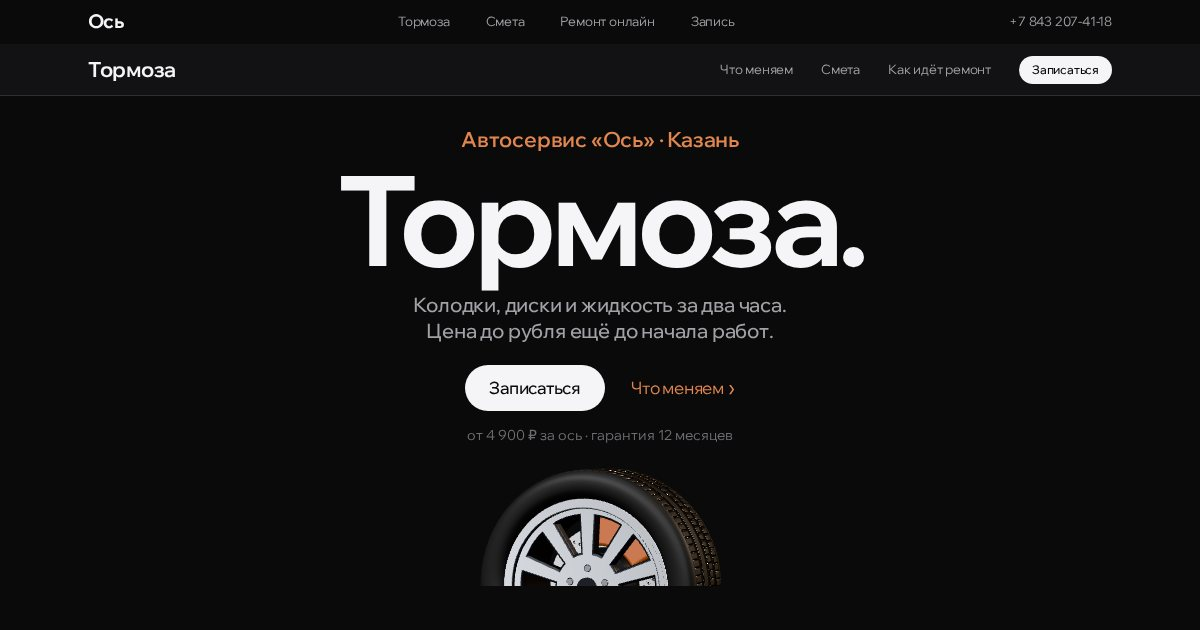
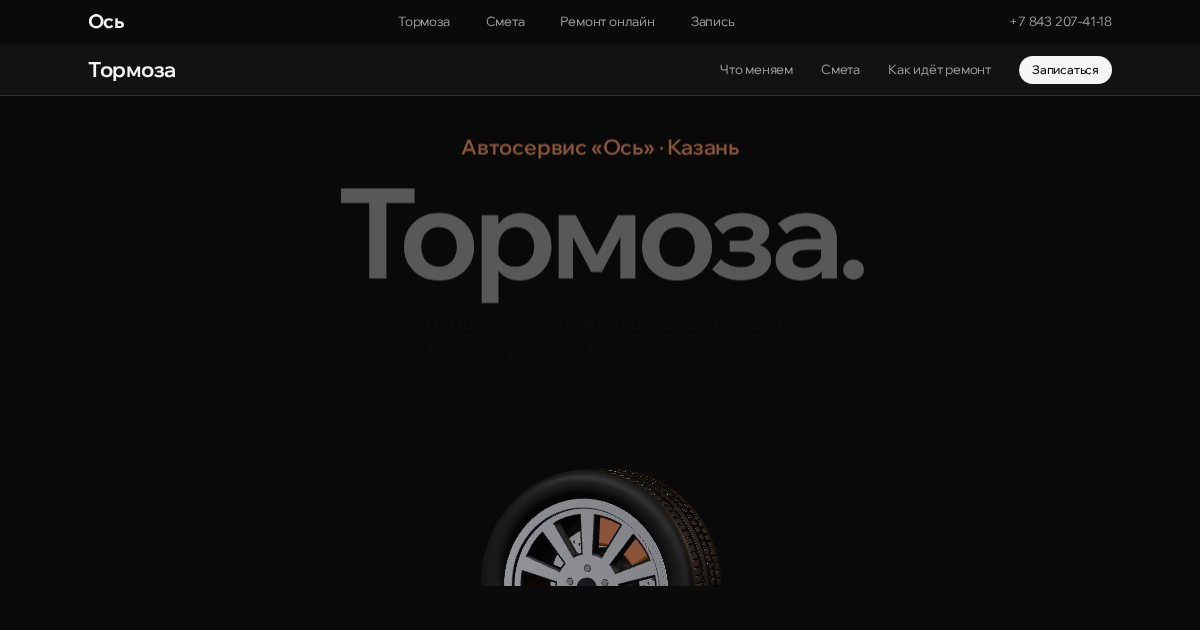
Выкладка os-servis

diff --git a/os-servis/assets/css/site.css b/os-servis/assets/css/site.css
@@ -80,10 +80,10 @@ body.go .rise:nth-child(4) { transition-delay: .24s; }
 body.go .rise:nth-child(5) { transition-delay: .32s; }
 
 /* манифест */
-.manifest { background: var(--white); color: var(--dark); padding: clamp(120px, 24vh, 260px) 0; }
+.manifest { background: var(--black); color: var(--ink); padding: clamp(120px, 24vh, 260px) 0; }
 .manifest-text { width: min(980px, calc(100% - 48px)); margin: 0 auto; font-size: clamp(30px, 3.9vw, 56px); line-height: 1.14; font-weight: 650; letter-spacing: -.03em; }
-.manifest-text .w { color: #d2d2d7; transition: color .35s linear; }
-.manifest-text .w.on { color: var(--dark); }
+.manifest-text .w { color: #3a3a3d; transition: color .35s linear; }
+.manifest-text .w.on { color: var(--ink); }
 
 /* разбор */
 .stage { position: sticky; top: 0; height: 100vh; height: 100svh; overflow: hidden; }
@@ -103,7 +103,7 @@ body.go .rise:nth-child(5) { transition-delay: .32s; }
 .note p { font-size: 15px; line-height: 1.45; color: var(--ink-2); }
 
 /* смета */
-.smeta { background: var(--paper); color: var(--dark); padding: clamp(100px, 15vh, 170px) 0; }
+.smeta { background: linear-gradient(180deg, var(--black) 0, #2a2a2c 70px, #d9d9de 190px, var(--paper) 280px); color: var(--dark); padding: clamp(220px, 28vh, 300px) 0 clamp(100px, 15vh, 170px); }
 .smeta-in { display: grid; grid-template-columns: 1.1fr .9fr; gap: clamp(32px, 6vw, 96px); align-items: start; }
 .smeta .eyebrow, .zapis .eyebrow, .bento .eyebrow { color: var(--accent-l); }
 .smeta .display { margin-bottom: 40px; }
@@ -125,10 +125,11 @@ body.go .rise:nth-child(5) { transition-delay: .32s; }
 .chek .pill { background: var(--dark); color: #fff; }
 
 /* ход ремонта */
-.hod { height: 260vh; background: #000; }
+.hod { height: 260vh; background: var(--paper); color: var(--dark); }
+.hod .eyebrow { color: var(--accent-l); }
 .hod-stage { display: grid; grid-template-columns: 1fr auto; align-items: center; gap: clamp(32px, 6vw, 110px); width: min(var(--wrap), calc(100% - 48px)); margin: 0 auto; }
-.hod-lead { color: var(--ink-2); font-size: clamp(19px, 1.6vw, 22px); line-height: 1.35; margin-top: 20px; max-width: 26ch; }
-.chat { width: 380px; height: min(720px, 82vh); border-radius: 44px; background: var(--black-2); border: 1px solid rgba(255, 255, 255, .1); box-shadow: 0 30px 80px rgba(0, 0, 0, .6), inset 0 0 0 6px #0c0c0d; overflow: hidden; display: flex; flex-direction: column; }
+.hod-lead { color: var(--dark-2); font-size: clamp(19px, 1.6vw, 22px); line-height: 1.35; margin-top: 20px; max-width: 26ch; }
+.chat { width: 380px; height: min(720px, 82vh); border-radius: 44px; background: var(--black-2); color: var(--ink); border: 1px solid rgba(255, 255, 255, .1); box-shadow: 0 40px 90px rgba(0, 0, 0, .28), inset 0 0 0 6px #0c0c0d; overflow: hidden; display: flex; flex-direction: column; }
 .chat-top { display: flex; gap: 12px; align-items: center; padding: 26px 22px 14px; border-bottom: 1px solid var(--line-d); background: rgba(30, 30, 32, .9); }
 .chat-top b { display: block; font-size: 15px; font-weight: 600; }
 .chat-top small { color: var(--ink-3); font-size: 12px; }

diff --git a/os-servis/assets/js/koleso.js b/os-servis/assets/js/koleso.js
@@ -21,7 +21,7 @@ export function createKoleso(canvas) {
 
   const scene = new THREE.Scene();
   const bg = new THREE.Color(0x0a0a0b);
-  scene.background = bg;
+  scene.background = null;   // фон — цвет очистки: колесо рисуется дважды, с отражением в полу
   const pmrem = new THREE.PMREMGenerator(renderer);
   // Студия: чёрная комната и софтбоксы — на металле ложатся чистые градиентные блики
   scene.environment = (() => {
@@ -224,6 +224,33 @@ export function createKoleso(canvas) {
     for (const m of all) m.color.copy(base.get(m)).multiplyScalar(!st.focus || (GROUPS[st.focus] || []).includes(m) ? 1 : 0.3);
   }
   function project(name) { const v = anchors[name]().project(camera); return { x: (v.x + 1) / 2 * W, y: (1 - v.y) / 2 * H }; }
-  function render() { bg.set(st.bg); pose(); focus(); fit(); renderer.render(scene, camera); }
+  // Отражение в глянцевом тёмном полу: то же колесо вверх ногами под полом и
+  // полупрозрачный пол поверх, который гасит отражение к краям — как в студии
+  const FLOOR = -0.336;
+  const floorScene = new THREE.Scene();
+  const fadeTex = (() => {
+    const c = document.createElement('canvas'); c.width = c.height = 256;
+    const g = c.getContext('2d'), gr = g.createRadialGradient(128, 128, 0, 128, 128, 128);
+    gr.addColorStop(0, 'rgba(0,0,0,0.86)'); gr.addColorStop(0.5, 'rgba(0,0,0,0.94)'); gr.addColorStop(1, 'rgba(0,0,0,1)');
+    g.fillStyle = gr; g.fillRect(0, 0, 256, 256);
+    return new THREE.CanvasTexture(c);
+  })();
+  const floorMat = new THREE.MeshBasicMaterial({ color: 0x0a0a0b, alphaMap: fadeTex, transparent: true, depthWrite: false, toneMapped: false });
+  const floor = new THREE.Mesh(new THREE.PlaneGeometry(3, 3), floorMat);
+  floor.rotation.x = -Math.PI / 2; floor.position.y = FLOOR; floorScene.add(floor);
+  renderer.autoClear = false;
+  function render() {
+    bg.set(st.bg); pose(); focus(); fit();
+    renderer.setClearColor(bg, 1); renderer.clear();
+    if (st.mirror !== false) {
+      wheel.scale.y = -1; wheel.position.y = 2 * FLOOR;
+      renderer.render(scene, camera);
+      wheel.scale.y = 1; wheel.position.y = 0;
+      floorMat.color.copy(bg);
+      renderer.clearDepth();
+      renderer.render(floorScene, camera);
+    }
+    renderer.render(scene, camera);
+  }
   return { st, render, resize, project };
 }

diff --git a/os-servis/assets/js/main.js b/os-servis/assets/js/main.js
@@ -191,7 +191,7 @@ function placeNotes() {
   });
 }
 
-const LIGHT = $$('.manifest, .smeta, .bento, .zapis, .foot');
+const LIGHT = $$('.smeta, .hod, .bento, .zapis, .foot');
 let dirty = true, lastKey = '', active = null;
 function frame() {
   manStep(); hodStep();
